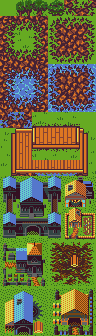
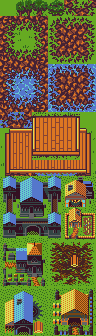
add tiled files, slight improvement to tileset

Changed region(s): [[0.3125, 0.3274, 0.9688, 0.5357], [0.0312, 0.3571, 0.1875, 0.5357], [0.3438, 0.119, 0.4062, 0.1488]]

diff --git a/resources/Tiled/woodland.tsx b/resources/Tiled/woodland.tsx
@@ -1,0 +1,95 @@
+<?xml version="1.0" encoding="UTF-8"?>
+<tileset version="1.10" tiledversion="1.11.2" name="woodland" tilewidth="16" tileheight="16" tilecount="126" columns="6">
+ <image source="../Tiles/woodland.png" width="96" height="336"/>
+ <tile id="1" type="Trees" probability="0.3"/>
+ <tile id="2" type="Trees" probability="0.3"/>
+ <tile id="3" type="Trees" probability="0.4"/>
+ <wangsets>
+  <wangset name="Grass and Rock" type="corner" tile="4">
+   <wangcolor name="Grass" color="#ff0000" tile="13" probability="1"/>
+   <wangcolor name="Rock" color="#00ff00" tile="16" probability="1"/>
+   <wangtile tileid="4" wangid="0,1,0,2,0,1,0,2"/>
+   <wangtile tileid="5" wangid="0,2,0,1,0,2,0,1"/>
+   <wangtile tileid="6" wangid="0,2,0,1,0,2,0,2"/>
+   <wangtile tileid="7" wangid="0,2,0,1,0,1,0,2"/>
+   <wangtile tileid="8" wangid="0,2,0,2,0,1,0,2"/>
+   <wangtile tileid="9" wangid="0,1,0,2,0,1,0,1"/>
+   <wangtile tileid="10" wangid="0,1,0,2,0,2,0,1"/>
+   <wangtile tileid="11" wangid="0,1,0,1,0,2,0,1"/>
+   <wangtile tileid="12" wangid="0,1,0,1,0,2,0,2"/>
+   <wangtile tileid="13" wangid="0,1,0,1,0,1,0,1"/>
+   <wangtile tileid="14" wangid="0,2,0,2,0,1,0,1"/>
+   <wangtile tileid="15" wangid="0,2,0,2,0,1,0,1"/>
+   <wangtile tileid="16" wangid="0,2,0,2,0,2,0,2"/>
+   <wangtile tileid="17" wangid="0,1,0,1,0,2,0,2"/>
+   <wangtile tileid="18" wangid="0,1,0,2,0,2,0,2"/>
+   <wangtile tileid="19" wangid="0,1,0,2,0,2,0,1"/>
+   <wangtile tileid="20" wangid="0,2,0,2,0,2,0,1"/>
+   <wangtile tileid="21" wangid="0,2,0,1,0,1,0,1"/>
+   <wangtile tileid="22" wangid="0,2,0,1,0,1,0,2"/>
+   <wangtile tileid="23" wangid="0,1,0,1,0,1,0,2"/>
+   <wangtile tileid="24" wangid="0,2,0,0,0,2,0,2"/>
+   <wangtile tileid="25" wangid="0,2,0,0,0,0,0,2"/>
+   <wangtile tileid="26" wangid="0,2,0,2,0,0,0,2"/>
+   <wangtile tileid="27" wangid="0,0,0,2,0,0,0,0"/>
+   <wangtile tileid="28" wangid="0,0,0,2,0,2,0,0"/>
+   <wangtile tileid="29" wangid="0,0,0,0,0,2,0,0"/>
+   <wangtile tileid="30" wangid="0,0,0,0,0,2,0,2"/>
+   <wangtile tileid="32" wangid="0,2,0,2,0,0,0,0"/>
+   <wangtile tileid="33" wangid="0,2,0,2,0,0,0,0"/>
+   <wangtile tileid="34" wangid="0,2,0,2,0,2,0,2"/>
+   <wangtile tileid="35" wangid="0,0,0,0,0,2,0,2"/>
+   <wangtile tileid="36" wangid="0,0,0,2,0,2,0,2"/>
+   <wangtile tileid="37" wangid="0,0,0,2,0,2,0,0"/>
+   <wangtile tileid="38" wangid="0,2,0,2,0,2,0,0"/>
+   <wangtile tileid="39" wangid="0,2,0,0,0,0,0,0"/>
+   <wangtile tileid="40" wangid="0,2,0,0,0,0,0,2"/>
+   <wangtile tileid="41" wangid="0,0,0,0,0,0,0,2"/>
+   <wangtile tileid="42" wangid="0,0,0,2,0,0,0,2"/>
+   <wangtile tileid="43" wangid="0,2,0,0,0,2,0,0"/>
+  </wangset>
+  <wangset name="Water and Rock" type="corner" tile="43">
+   <wangcolor name="Water" color="#ff0000" tile="31" probability="1"/>
+   <wangcolor name="Rock" color="#00ff00" tile="34" probability="1"/>
+   <wangtile tileid="4" wangid="0,0,0,2,0,0,0,2"/>
+   <wangtile tileid="5" wangid="0,2,0,0,0,2,0,0"/>
+   <wangtile tileid="6" wangid="0,2,0,0,0,2,0,2"/>
+   <wangtile tileid="7" wangid="0,2,0,0,0,0,0,2"/>
+   <wangtile tileid="8" wangid="0,2,0,2,0,0,0,2"/>
+   <wangtile tileid="9" wangid="0,0,0,2,0,0,0,0"/>
+   <wangtile tileid="10" wangid="0,0,0,2,0,2,0,0"/>
+   <wangtile tileid="11" wangid="0,0,0,0,0,2,0,0"/>
+   <wangtile tileid="12" wangid="0,0,0,0,0,2,0,2"/>
+   <wangtile tileid="14" wangid="0,2,0,2,0,0,0,0"/>
+   <wangtile tileid="15" wangid="0,2,0,2,0,0,0,0"/>
+   <wangtile tileid="16" wangid="0,2,0,2,0,2,0,2"/>
+   <wangtile tileid="17" wangid="0,0,0,0,0,2,0,2"/>
+   <wangtile tileid="18" wangid="0,0,0,2,0,2,0,2"/>
+   <wangtile tileid="19" wangid="0,0,0,2,0,2,0,0"/>
+   <wangtile tileid="20" wangid="0,2,0,2,0,2,0,0"/>
+   <wangtile tileid="21" wangid="0,2,0,0,0,0,0,0"/>
+   <wangtile tileid="22" wangid="0,2,0,0,0,0,0,2"/>
+   <wangtile tileid="23" wangid="0,0,0,0,0,0,0,2"/>
+   <wangtile tileid="24" wangid="0,2,0,1,0,2,0,2"/>
+   <wangtile tileid="25" wangid="0,2,0,1,0,1,0,2"/>
+   <wangtile tileid="26" wangid="0,2,0,2,0,1,0,2"/>
+   <wangtile tileid="27" wangid="0,1,0,2,0,1,0,1"/>
+   <wangtile tileid="28" wangid="0,1,0,2,0,2,0,1"/>
+   <wangtile tileid="29" wangid="0,1,0,1,0,2,0,1"/>
+   <wangtile tileid="30" wangid="0,1,0,1,0,2,0,2"/>
+   <wangtile tileid="31" wangid="0,1,0,1,0,1,0,1"/>
+   <wangtile tileid="32" wangid="0,2,0,2,0,1,0,1"/>
+   <wangtile tileid="33" wangid="0,2,0,2,0,1,0,1"/>
+   <wangtile tileid="34" wangid="0,2,0,2,0,2,0,2"/>
+   <wangtile tileid="35" wangid="0,1,0,1,0,2,0,2"/>
+   <wangtile tileid="36" wangid="0,1,0,2,0,2,0,2"/>
+   <wangtile tileid="37" wangid="0,1,0,2,0,2,0,1"/>
+   <wangtile tileid="38" wangid="0,2,0,2,0,2,0,1"/>
+   <wangtile tileid="39" wangid="0,2,0,1,0,1,0,1"/>
+   <wangtile tileid="40" wangid="0,2,0,1,0,1,0,2"/>
+   <wangtile tileid="41" wangid="0,1,0,1,0,1,0,2"/>
+   <wangtile tileid="42" wangid="0,1,0,2,0,1,0,2"/>
+   <wangtile tileid="43" wangid="0,2,0,1,0,2,0,1"/>
+  </wangset>
+ </wangsets>
+</tileset>
